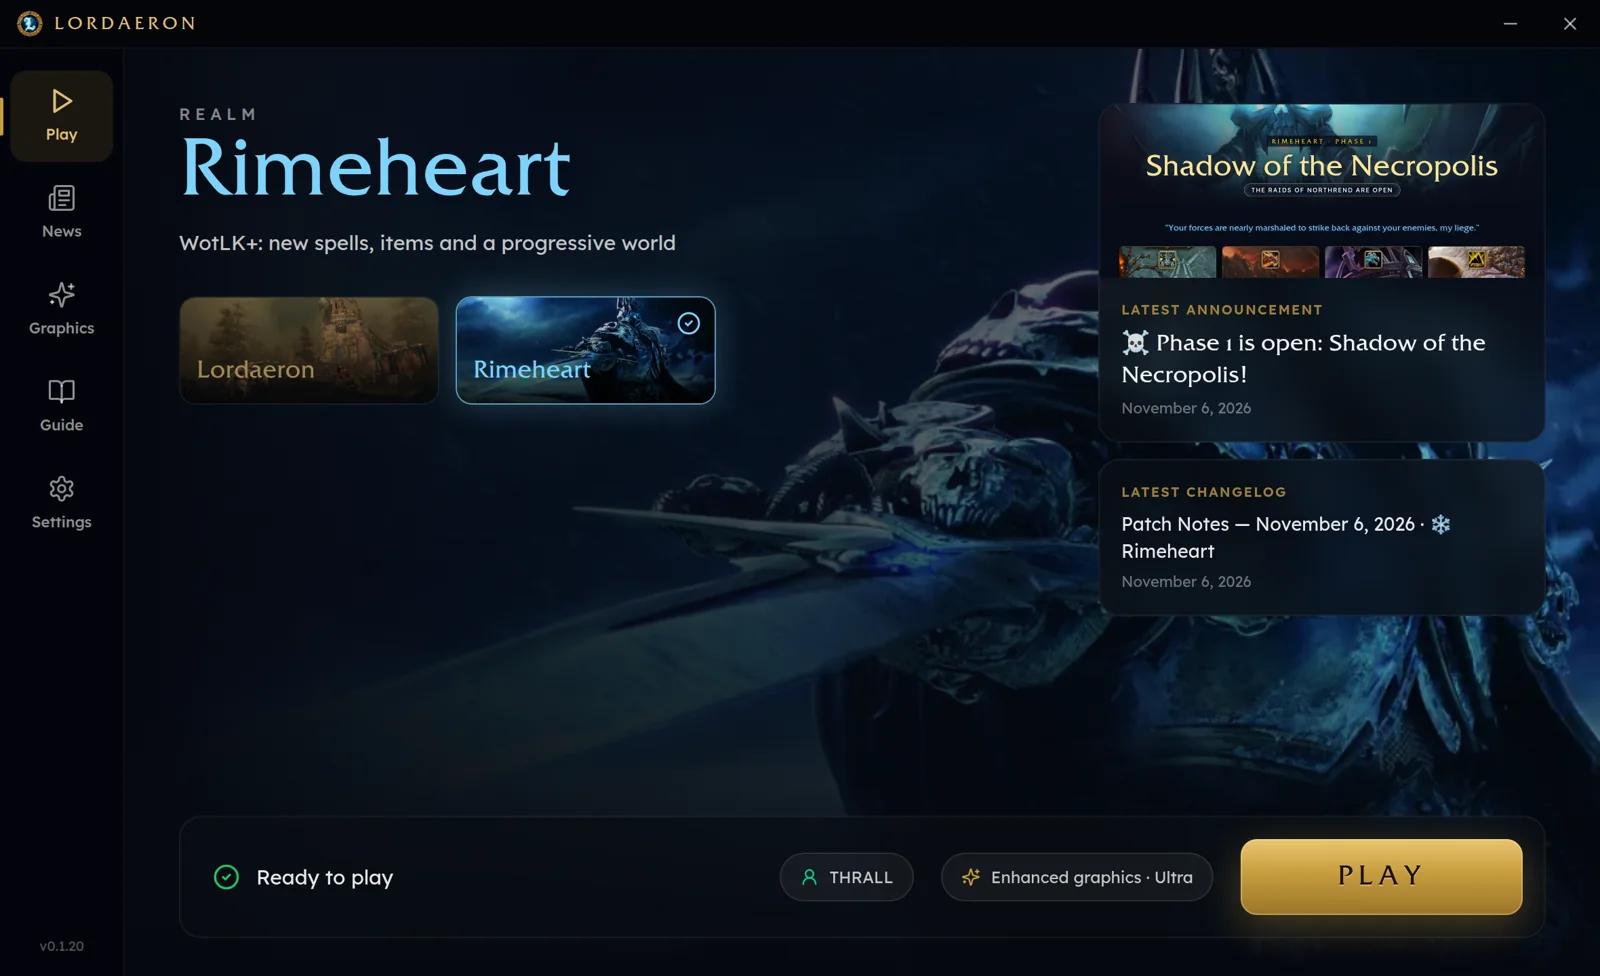
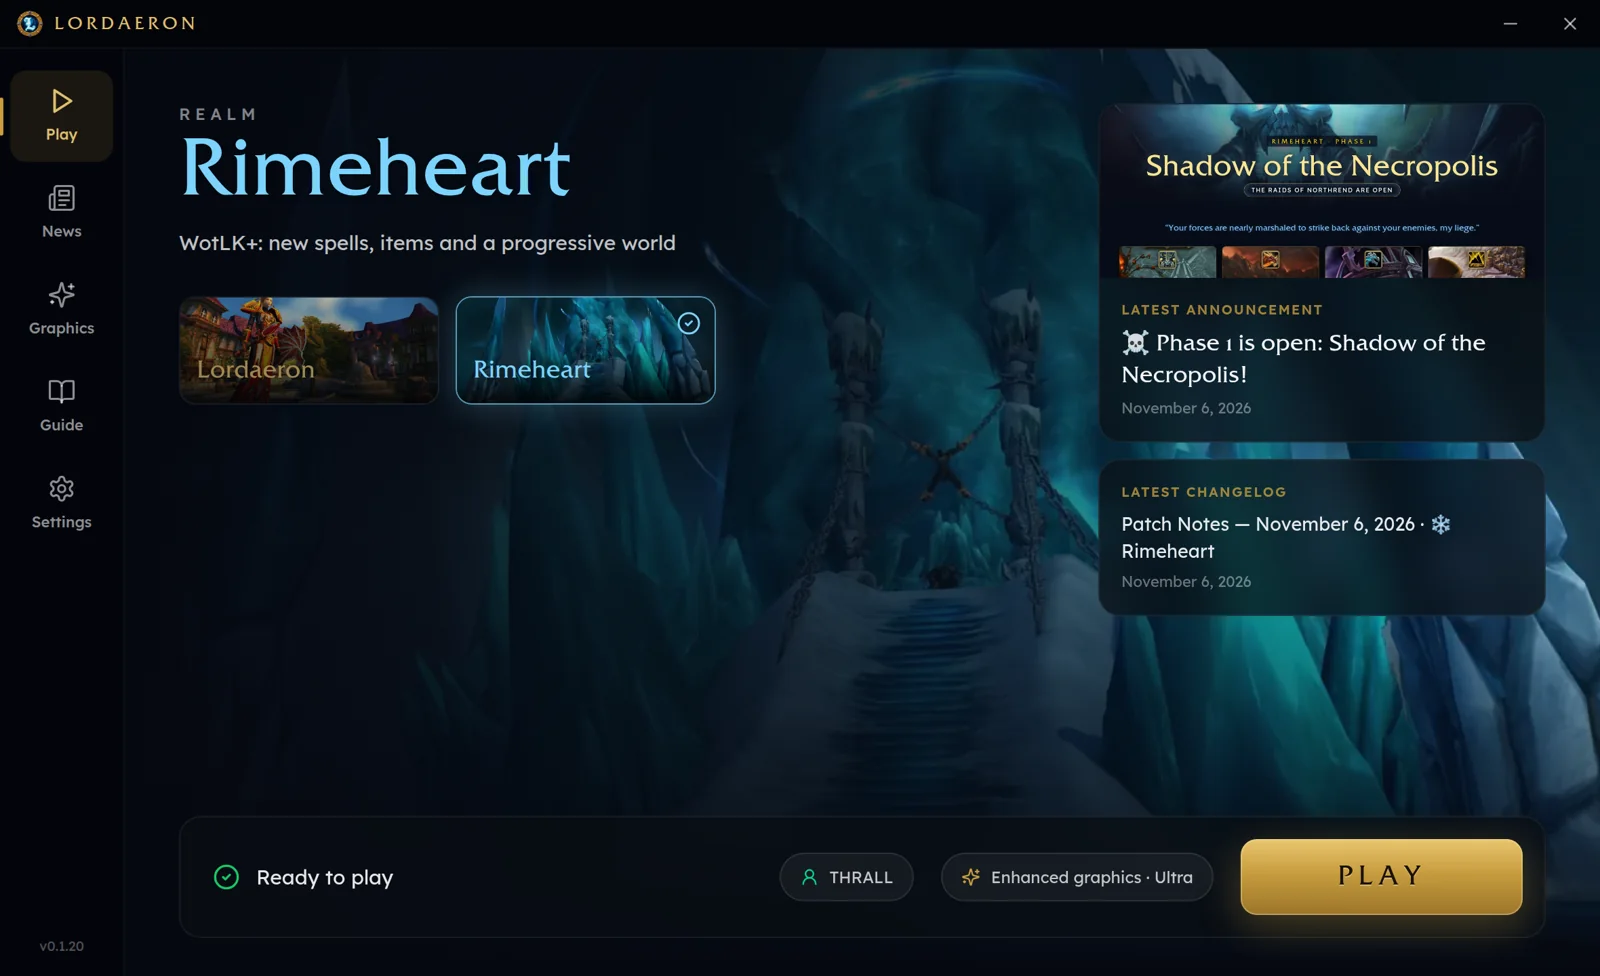
Launcher page and card: other art than the Lich King's, the launcher's new home screen
Claude-Session: https://claude.ai/code/session_011o3eCrovBmB483bTfnQRjV

diff --git a/components/launcher/launcher-page.tsx b/components/launcher/launcher-page.tsx
@@ -102,7 +102,7 @@ export function LauncherPage({
         <img
           alt=""
           className="absolute inset-0 h-full w-full object-cover opacity-25"
-          src="/img/experience/bg/wrath-of-the-lich-king-classic-cinematic-still-4.webp"
+          src="/img/Wrath of the Lich King Classic Reveal Screenshots 1080p/WoW_Wrath_Dalaran_004_1080p_png_jpgcopy.jpg"
         />
         <div className="absolute inset-0 bg-gradient-to-b from-wow-darker/40 via-wow-darker/80 to-wow-darker" />
         <div className="relative mx-auto grid max-w-7xl items-center gap-12 px-6 pb-16 pt-16 lg:grid-cols-[1fr_1.25fr] lg:pt-24">

diff --git a/components/launcher-card.tsx b/components/launcher-card.tsx
@@ -33,7 +33,7 @@ export function LauncherCard({ launcher }: { launcher: LauncherInfo }) {
         alt=""
         className="absolute inset-0 h-full w-full object-cover opacity-25"
         loading="lazy"
-        src="/img/Wrath of the Lich King Classic Cinematic Stills/Wrath_of_the_Lich_King_Classic_Cinematic_Still__(4).jpg"
+        src="/img/Wrath of the Lich King Classic Reveal Screenshots 1080p/WoW_Wrath_Ulduar_000_1080p_png_jpgcopy.jpg"
       />
       <div className="relative glass rounded-2xl p-6 sm:p-8">
         <div className="flex flex-wrap items-center gap-3">
